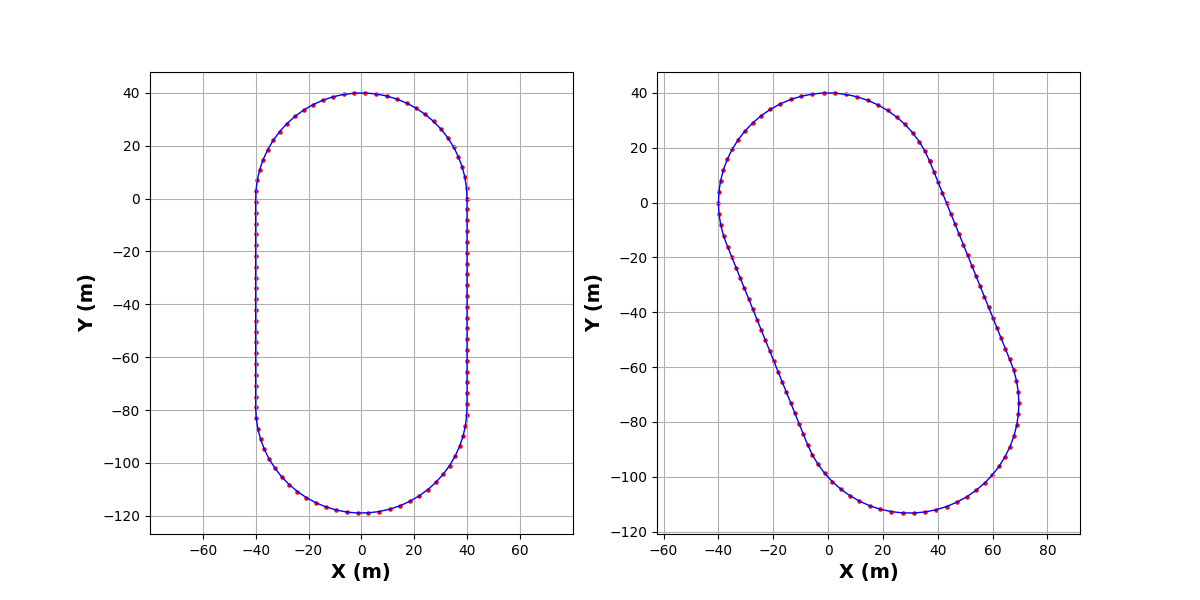
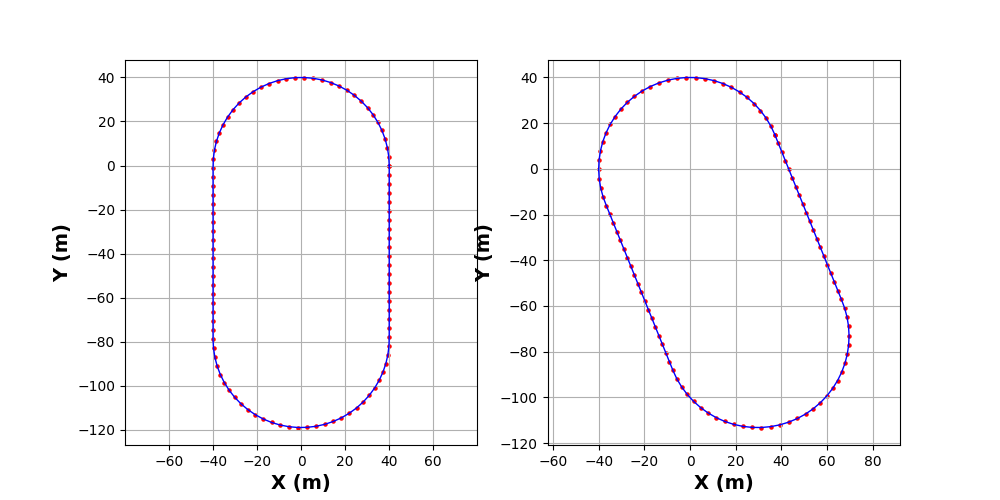
Update figure size in get_poly_coords.py

diff --git a/get_poly_coords.py b/get_poly_coords.py
@@ -139,7 +139,7 @@ angle = math.radians(22)
 rotate_points = np.array([rotate_point(point, angle, center1) for point in points])
 
 # 绘制闭合图形和离散点
-plt.figure(figsize=(12, 6))
+plt.figure(figsize=(10, 5))
 plt.subplot(1, 2, 1)
 plt.plot(points[:, 0], points[:, 1], 'b-', linewidth=1, label='Discrete Points')
 plt.scatter(points[:, 0], points[:, 1], color='red', s=5, label='Discrete Points')
